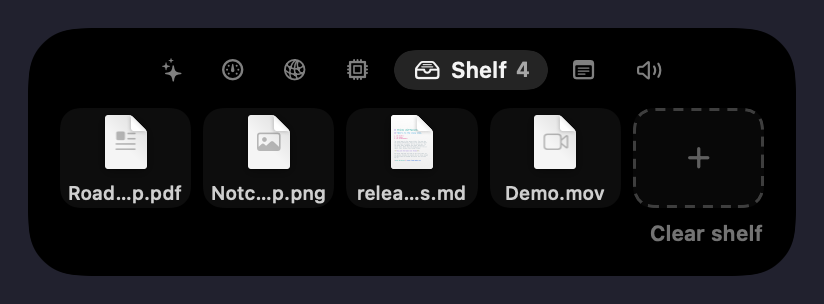
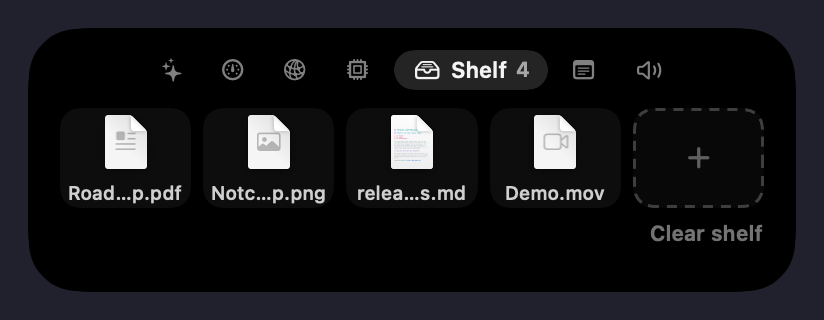
Slim rows again; row highlights inset 20 pt so corners run parallel
Reverts the 40 pt rows. A hover highlight's 12 pt rounded ends match the
opened notch's 32 pt corners when it sits 32 - 12 = 20 pt from the sides and
bottom, so that is the inset now, with row content 8 pt inside it. The panel
leaves 20 pt under the last row. Island window back to 470 pt tall.

diff --git a/Notchly/Views/Island/IslandMetrics.swift b/Notchly/Views/Island/IslandMetrics.swift
@@ -20,9 +20,15 @@ enum IslandMetrics {
     /// Corner radius of the opened notch.
     static let openedRadius: CGFloat = 32
     static let buttonHeight: CGFloat = 30
-    /// A clickable row tall enough that its highlight's rounded ends match the opened
-    /// notch's corners: twice the concentric radius (32 - 12 = 20, so 40 pt).
-    static let concentricRowHeight: CGFloat = (openedRadius - edgeInset) * 2
+
+    /// Clickable rows in the opened panels, and their pill-shaped hover highlight.
+    static let rowHeight: CGFloat = 24
+    static var rowRadius: CGFloat { rowHeight / 2 }
+    /// Island edge to a row highlight. Corners run parallel when the inner radius plus
+    /// this gap equals the outer radius: 32 - 12 = 20.
+    static var rowEdgeInset: CGFloat { openedRadius - rowRadius }
+    /// Highlight edge to the row's icon and text.
+    static let rowContentPadding: CGFloat = 8
 
     /// A corner that runs parallel to an island corner of radius `outer`, limited to a
     /// pill for short controls.
@@ -36,27 +42,24 @@ enum IslandMetrics {
     }
 }
 
-/// A clickable row in an opened panel: highlights on hover, with the highlight inset by
-/// `IslandMetrics.edgeInset` from the island's sides and concentric with its corners.
+/// A clickable row in an opened panel: highlights on hover. The highlight sits
+/// `rowEdgeInset` from the island's sides and bottom so its rounded ends run parallel to
+/// the notch's corners; the row's content sits `rowContentPadding` inside it.
 struct IslandHoverRow: ViewModifier {
     let height: CGFloat
     @State private var isHovered = false
 
-    private var outset: CGFloat { IslandMetrics.contentInset - IslandMetrics.edgeInset }
-
     func body(content: Content) -> some View {
         content
-            .padding(.horizontal, outset)
+            .padding(.horizontal, IslandMetrics.rowContentPadding)
             .frame(height: height)
             .background(
-                RoundedRectangle(
-                    cornerRadius: IslandMetrics.concentricRadius(outer: IslandMetrics.openedRadius, height: height),
-                    style: .continuous
-                )
-                .fill(Color.white.opacity(isHovered || SnapshotRendering.showsRowHighlights ? 0.1 : 0))
+                RoundedRectangle(cornerRadius: IslandMetrics.rowRadius, style: .continuous)
+                    .fill(Color.white.opacity(isHovered || SnapshotRendering.showsRowHighlights ? 0.1 : 0))
             )
             .contentShape(Rectangle())
-            .padding(.horizontal, -outset)
+            // The panel already insets its content by `contentInset`; move in the rest.
+            .padding(.horizontal, IslandMetrics.rowEdgeInset - IslandMetrics.contentInset)
             .onHover { hovering in
                 withAnimation(.easeOut(duration: 0.12)) { isHovered = hovering }
                 if hovering { NSCursor.pointingHand.set() } else { NSCursor.arrow.set() }

diff --git a/Notchly/Views/Island/ExtrasPanelView.swift b/Notchly/Views/Island/ExtrasPanelView.swift
@@ -193,9 +193,10 @@ struct ExtrasPanelView: View {
     static func contentGap(for tab: ExtrasPanelModel.Tab?) -> CGFloat {
         tab == .system ? 10 : 0
     }
-    static let bottomPadding: CGFloat = IslandMetrics.edgeInset
-    static let agentRowHeight: CGFloat = IslandMetrics.concentricRowHeight
-    static let outputRowHeight: CGFloat = IslandMetrics.concentricRowHeight
+    /// Room under the last row, so a hovered row's corners run parallel to the notch's.
+    static let bottomPadding: CGFloat = IslandMetrics.rowEdgeInset
+    static let agentRowHeight: CGFloat = IslandMetrics.rowHeight
+    static let outputRowHeight: CGFloat = IslandMetrics.rowHeight
     static let noteHeight: CGFloat = 54
 
     /// The battery panel and music player when the notch opens: fade in while sliding

diff --git a/Notchly/Views/Island/Logic/ContentView+Computed.swift b/Notchly/Views/Island/Logic/ContentView+Computed.swift
@@ -48,7 +48,7 @@ extension ContentView {
         case .agents:
             // Grows to fit the longest session name and step, up to the window's limit.
             let sessions = Array(sessionTracker.sessions.prefix(6))
-            wanted = min(max(AgentRowMetrics.contentWidth(for: sessions) + 32, 384), IslandLayout.maxOpenedWidth)
+            wanted = min(max(AgentRowMetrics.contentWidth(for: sessions) + 2 * (IslandMetrics.rowEdgeInset + IslandMetrics.rowContentPadding), 384), IslandLayout.maxOpenedWidth)
         case .ports, .system, .shelf, .usage:
             wanted = 384
         case .note, .output:

diff --git a/Notchly/Debug/ReadmeImageRenderer.swift b/Notchly/Debug/ReadmeImageRenderer.swift
@@ -163,7 +163,7 @@ private struct OpenedIsland: View {
 
     var body: some View {
         let width: CGFloat = tab == .agents
-            ? min(max(AgentRowMetrics.contentWidth(for: environment.agentEventManager.sessionTracker.sessions) + 32, 384), IslandLayout.maxOpenedWidth)
+            ? min(max(AgentRowMetrics.contentWidth(for: environment.agentEventManager.sessionTracker.sessions) + 2 * (IslandMetrics.rowEdgeInset + IslandMetrics.rowContentPadding), 384), IslandLayout.maxOpenedWidth)
             : 384
         let extras = ExtrasPanelView.height(
             tab: tab,

diff --git a/Notchly/App/SkyLightOverlayController.swift b/Notchly/App/SkyLightOverlayController.swift
@@ -717,9 +717,9 @@ final class SkyLightOverlayController {
     }
 
     private var islandWindowSize: CGSize {
-        // Tall enough for the music player with volume open plus six 40 pt rows, and
+        // Tall enough for the music player with volume open plus six listening ports, and
         // wide enough for the widest tab. Clicks pass through its transparent parts.
-        CGSize(width: IslandCanvas.width, height: 560)
+        CGSize(width: IslandCanvas.width, height: 470)
     }
 
     private func lockScreenPlayerYPosition(for screen: NSScreen) -> CGFloat {
